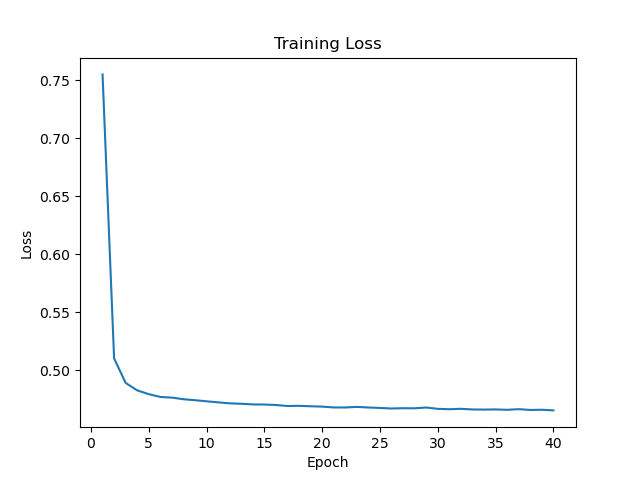
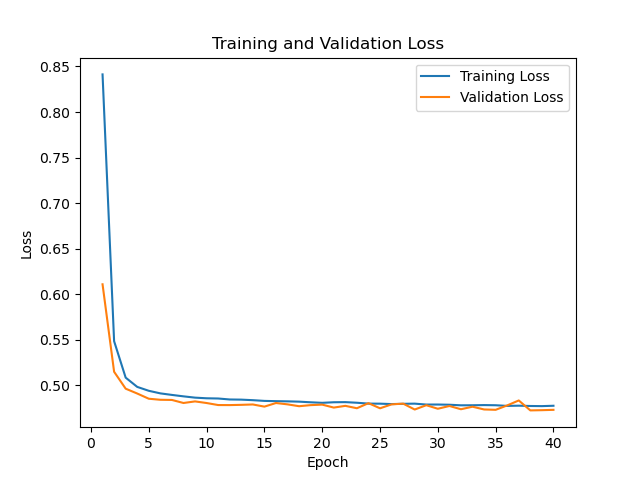
added validation to training learning curves

diff --git a/src/holdup/the_model/run_training.py b/src/holdup/the_model/run_training.py
@@ -54,25 +54,27 @@ flop_data = get_data(last_possible_dataset, "flop")
 turn_data = get_data(last_possible_dataset, "turn")
 river_data = get_data(last_possible_dataset, "river")
 
-def separate_train_test(street_data):
+def separate_train_test_val(street_data):
     n_train = int(len(street_data)*0.6)
+    n_val = int(len(street_data)*0.2)
     train_set = street_data[:n_train]
-    test_set = street_data[n_train:]
-    return train_set,test_set
+    val_set = street_data[n_train:n_train+n_val]
+    test_set = street_data[n_train+n_val:]
+    return train_set, val_set, test_set
 
-train_preflop, test_preflop =separate_train_test(preflop_data)
+train_preflop, val_preflop, test_preflop =separate_train_test_val(preflop_data)
 print("preflop_train_data_size: {}".format(len(train_preflop)))
 print("preflop_test_data_size: {}".format(len(test_preflop)))
 
-train_flop, test_flop=separate_train_test(flop_data)
+train_flop,val_flop, test_flop=separate_train_test_val(flop_data)
 print("flop_train_data_size: {}".format(len(train_flop)))
 print("flop_test_data_size: {}".format(len(test_flop)))
 
-train_turn, test_turn=separate_train_test(turn_data)
+train_turn,val_turn, test_turn=separate_train_test_val(turn_data)
 print("turn_train_data_size: {}".format(len(train_turn)))
 print("turn_test_data_size: {}".format(len(test_turn)))
 
-train_river, test_river=separate_train_test(river_data)
+train_river,val_river, test_river=separate_train_test_val(river_data)
 print("river_train_data_size: {}".format(len(train_river)))
 print("river_test_data_size: {}".format(len(test_river)))
 
@@ -83,10 +85,11 @@ device = torch.device("cuda" if torch.cuda.is_available() else "cpu")
 # Create an instance of the autoencoder
 # model = Autoencoder(num_hidden_nodes).to(device)
 
-def train(model, train_loader, num_epochs, weight_decay, pftr='stage_name'):
-    criterion = nn.CrossEntropyLoss() #changed to cross entropy loss for classification based tasks (semi-supervised)
+def train(model, train_loader, val_loader, num_epochs, weight_decay, pftr='stage_name'):
+    criterion = nn.CrossEntropyLoss()
     optimizer = optim.Adam(model.parameters(), weight_decay=weight_decay)
     train_losses = []
+    val_losses = []
     for epoch in range(num_epochs):
         running_loss = 0.0
         for data in train_loader:
@@ -102,14 +105,29 @@ def train(model, train_loader, num_epochs, weight_decay, pftr='stage_name'):
             running_loss += loss.item() * inputs.size(0)
         epoch_loss = running_loss / len(train_loader.dataset)
         train_losses.append(epoch_loss)
-        print(f"Epoch [{epoch+1}/{num_epochs}], Loss: {epoch_loss:.4f}")
+        print(f"Epoch [{epoch+1}/{num_epochs}], Training Loss: {epoch_loss:.4f}")
+        with torch.no_grad():
+            running_loss = 0.0
+            for data in val_loader:
+                inputs, labels = data
+                inputs = inputs.float()
+                batch_size, _, _ = inputs.size()
+                inputs = inputs.view(batch_size, -1)
+                outputs = model(inputs)
+                loss = criterion(outputs, labels)
+                running_loss += loss.item() * inputs.size(0)
+            epoch_loss = running_loss / len(val_loader.dataset)
+            val_losses.append(epoch_loss)
+            print(f"Epoch [{epoch+1}/{num_epochs}], Validation Loss: {epoch_loss:.4f}")
     # Autoencoder.save(save_the_model, bbox_inches='tight')
     print("Training finished!")
     # plot the learning curve
-    plt.plot(range(1, num_epochs + 1), train_losses)
-    plt.title('Training Loss')
+    plt.plot(range(1, num_epochs + 1), train_losses, label='Training Loss')
+    plt.plot(range(1, num_epochs + 1), val_losses, label='Validation Loss')
+    plt.title('Training and Validation Loss')
     plt.xlabel('Epoch')
     plt.ylabel('Loss')
+    plt.legend()
     s = str(pftr) + '_lc_epoch_loss'
     plt.savefig(s)
     plt.clf()
@@ -129,13 +147,15 @@ def quick_test(model,test_loader):
             correct += (predicted == labels).sum().item()
     print(f"Accuracy on test set: {correct / total * 100:.2f}%")
 
+# Re. Batch sizes Typically, we should test for [8,16,32,64,128,256,512,1024]
 
-def train_and_quick_test(num_hidden_nodes, num_epochs, weight_decay,train_data,test_data, pftr):
+def train_and_quick_test( num_hidden_nodes, num_epochs, weight_decay,train_data,val_data, test_data,batch_size, pftr):
     # Define the model
     model = Autoencoder(num_hidden_nodes).to(device)
-    train_loader = torch.utils.data.DataLoader(train_data, batch_size=20, shuffle=True)
-    test_loader = torch.utils.data.DataLoader(test_data, batch_size=20, shuffle=False)
-    train(model, train_loader, num_epochs, weight_decay,pftr)
+    train_loader = torch.utils.data.DataLoader(train_data, batch_size=batch_size, shuffle=True)
+    val_loader = torch.utils.data.DataLoader(val_data, batch_size=batch_size, shuffle=True)
+    test_loader = torch.utils.data.DataLoader(test_data, batch_size=batch_size, shuffle=False)
+    train(model, train_loader,val_loader, num_epochs, weight_decay,pftr)
     # Test the model
     quick_test(model,test_loader)
 
@@ -178,9 +198,9 @@ river_weight_decay = 0.001
 
 if __name__ == "__main__":
     #the authors didn't visualize results from preflop, so the data from this would be new
-    train_and_quick_test(flop_hidden_nodes, flop_epochs, flop_weight_decay,train_preflop,test_preflop,pftr='preflop_last_possible')
+    train_and_quick_test( flop_hidden_nodes, flop_epochs, flop_weight_decay,train_preflop,val_preflop, test_preflop,32,pftr='preflop_last_possible')
 
     #train/test models on flop, turn, river datasets
-    train_and_quick_test(flop_hidden_nodes, flop_epochs, flop_weight_decay,train_flop,test_flop,pftr='flop_last_possible')
-    train_and_quick_test(turn_hidden_nodes, turn_epochs, turn_weight_decay,train_turn,test_turn,pftr='turn_last_possible')
-    train_and_quick_test(river_hidden_nodes, river_epochs, river_weight_decay,train_river,test_river,pftr='river_last_possible')
+    train_and_quick_test(flop_hidden_nodes, flop_epochs, flop_weight_decay,train_flop,val_flop,test_flop,32,pftr='flop_last_possible')
+    train_and_quick_test(turn_hidden_nodes, turn_epochs, turn_weight_decay,train_turn,val_turn,test_turn,32,pftr='turn_last_possible')
+    train_and_quick_test(river_hidden_nodes, river_epochs, river_weight_decay,train_river,val_river,test_river,32,pftr='river_last_possible')
